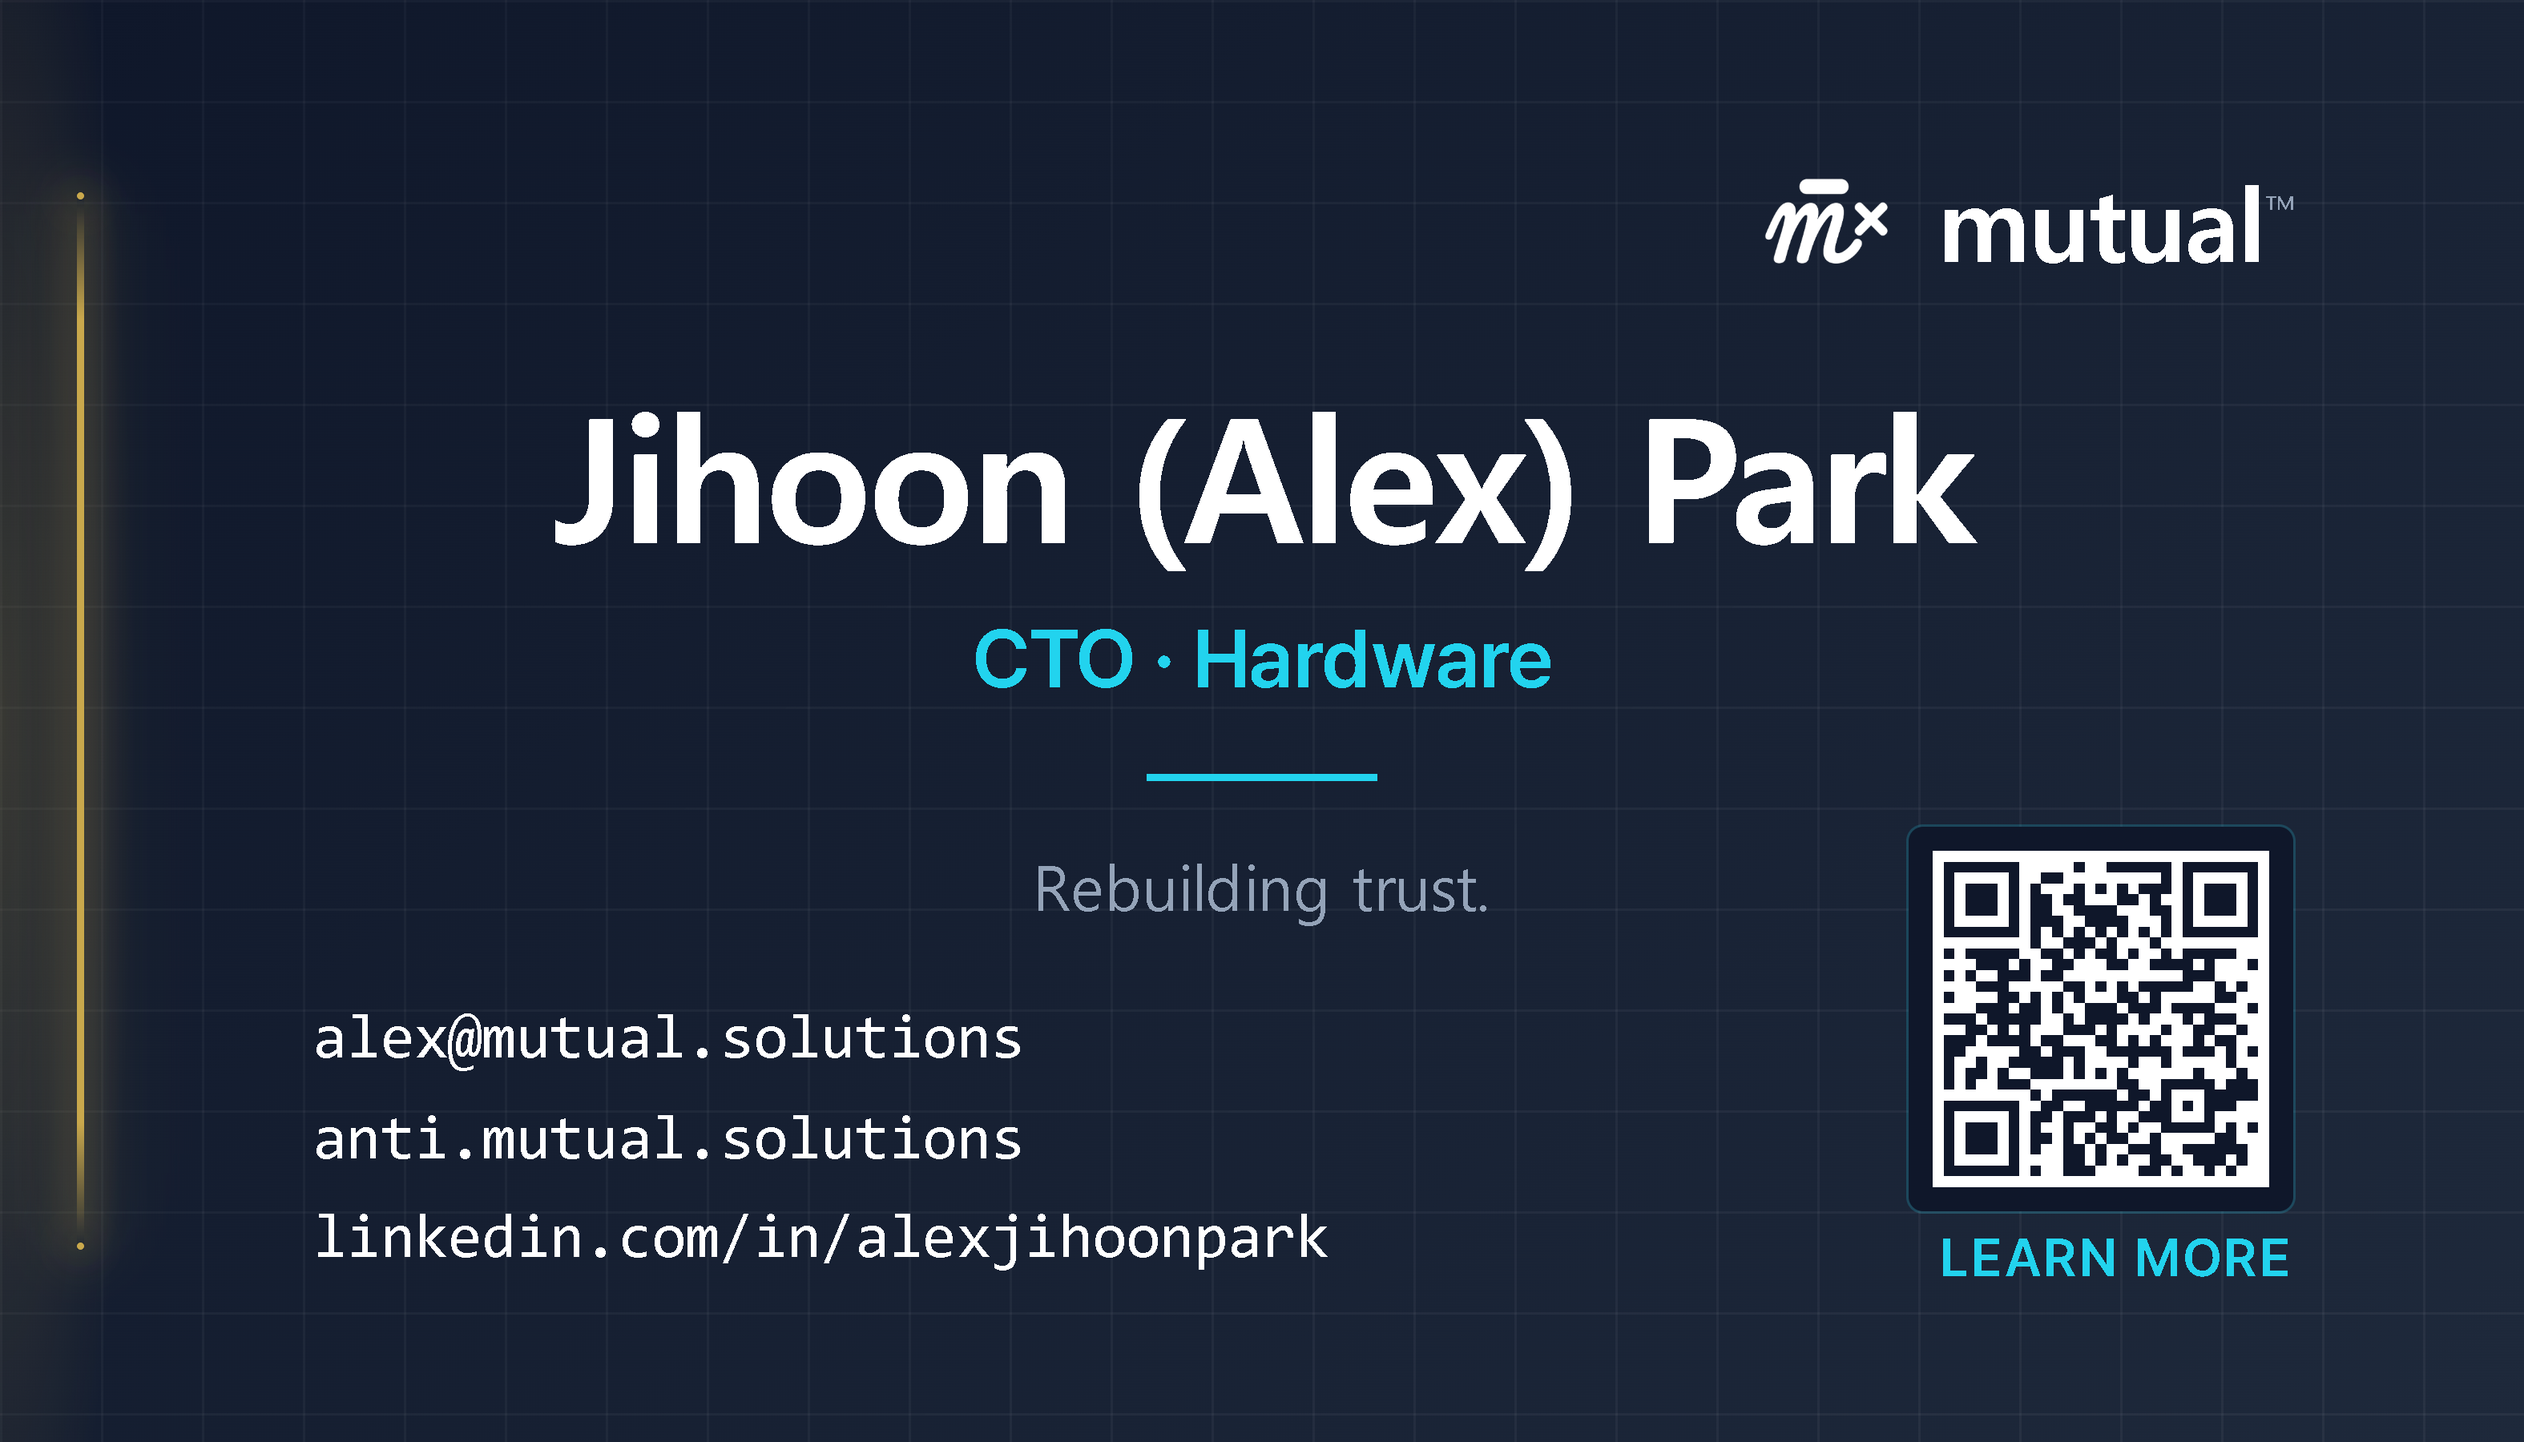
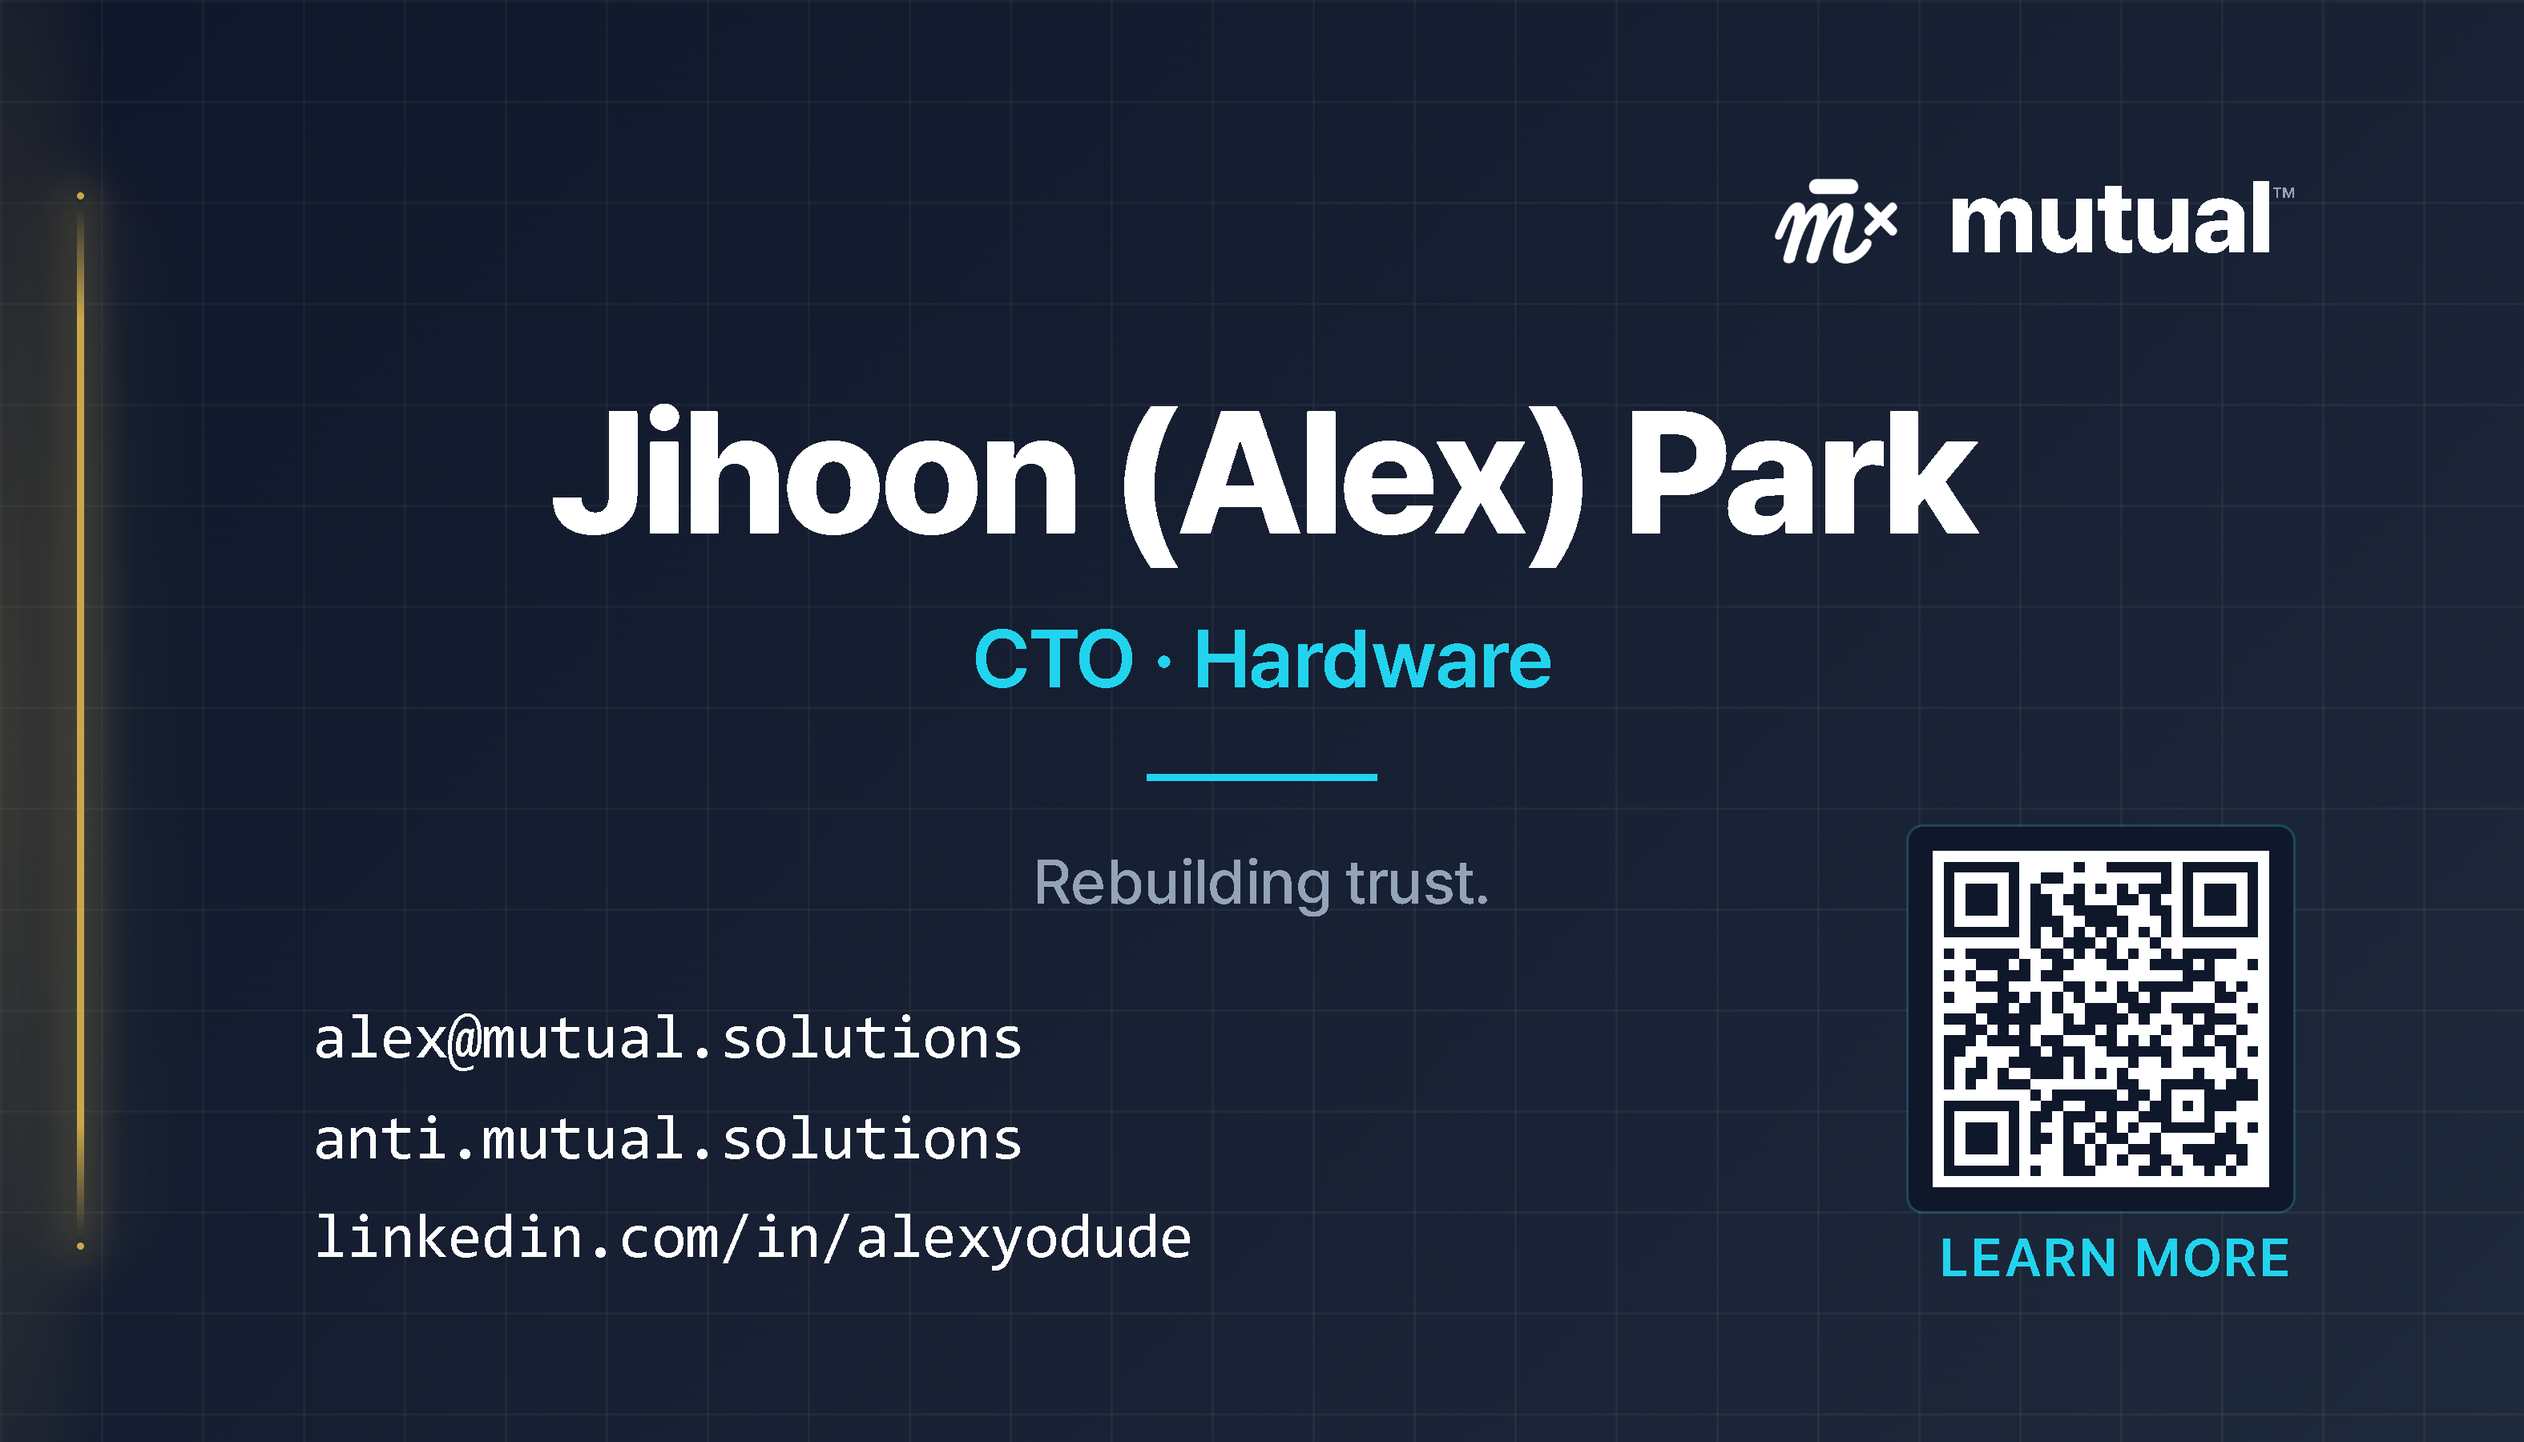
Update LinkedIn handles
Alex:  linkedin.com/in/alexjihoonpark → linkedin.com/in/alexyodude
  Yejun: linkedin.com/in/yejunjang     → linkedin.com/in/mutantq

Updated in both .canva-build/generate-lab-edge.cjs (Lab Edge family) and
.canva-build/variants.cjs (parametric + handcrafted variants). Lab Edge
HTMLs and PNGs re-rendered with the new URLs.

diff --git a/.canva-build/v-tech-edge-fek1-front-alex.html b/.canva-build/v-tech-edge-fek1-front-alex.html
@@ -43,7 +43,7 @@ html,body{width:1050px;height:600px;background:#020617;font-family:'Pretendard',
   <div class="mono" style="position:absolute;left:130px;bottom:64px;font-size:26px;line-height:1.6;color:#fff;letter-spacing:0.1px;font-weight:500;z-index:2">
     <div>alex@mutual.solutions</div>
     <div>anti.mutual.solutions</div>
-    <div>linkedin.com/in/alexjihoonpark</div>
+    <div>linkedin.com/in/alexyodude</div>
   </div>
 
   <!-- QR + English label -->

diff --git a/.canva-build/v-tech-edge-gilded-front-alex.html b/.canva-build/v-tech-edge-gilded-front-alex.html
@@ -43,7 +43,7 @@ html,body{width:1050px;height:600px;background:#0f172a;font-family:'Pretendard',
   <div class="mono" style="position:absolute;left:130px;bottom:64px;font-size:26px;line-height:1.6;color:#fff;letter-spacing:0.1px;font-weight:500;z-index:2">
     <div>alex@mutual.solutions</div>
     <div>anti.mutual.solutions</div>
-    <div>linkedin.com/in/alexjihoonpark</div>
+    <div>linkedin.com/in/alexyodude</div>
   </div>
 
   <!-- QR + English label -->

diff --git a/.canva-build/v-tech-edge-halo-front-alex.html b/.canva-build/v-tech-edge-halo-front-alex.html
@@ -43,7 +43,7 @@ html,body{width:1050px;height:600px;background:#0f172a;font-family:'Pretendard',
   <div class="mono" style="position:absolute;left:130px;bottom:64px;font-size:26px;line-height:1.6;color:#fff;letter-spacing:0.1px;font-weight:500;z-index:2">
     <div>alex@mutual.solutions</div>
     <div>anti.mutual.solutions</div>
-    <div>linkedin.com/in/alexjihoonpark</div>
+    <div>linkedin.com/in/alexyodude</div>
   </div>
 
   <!-- QR + English label -->

diff --git a/.canva-build/v-tech-edge-fek1-back-alex.html b/.canva-build/v-tech-edge-fek1-back-alex.html
@@ -42,7 +42,7 @@ html,body{width:1050px;height:600px;background:#020617;font-family:'Pretendard',
   <div class="mono" style="position:absolute;left:130px;bottom:64px;font-size:26px;line-height:1.6;color:#fff;letter-spacing:0.1px;font-weight:500;z-index:2">
     <div>alex@mutual.solutions</div>
     <div>anti.mutual.solutions</div>
-    <div>linkedin.com/in/alexjihoonpark</div>
+    <div>linkedin.com/in/alexyodude</div>
   </div>
 
   <!-- QR + Korean label -->

diff --git a/.canva-build/v-tech-edge-gilded-back-alex.html b/.canva-build/v-tech-edge-gilded-back-alex.html
@@ -42,7 +42,7 @@ html,body{width:1050px;height:600px;background:#0f172a;font-family:'Pretendard',
   <div class="mono" style="position:absolute;left:130px;bottom:64px;font-size:26px;line-height:1.6;color:#fff;letter-spacing:0.1px;font-weight:500;z-index:2">
     <div>alex@mutual.solutions</div>
     <div>anti.mutual.solutions</div>
-    <div>linkedin.com/in/alexjihoonpark</div>
+    <div>linkedin.com/in/alexyodude</div>
   </div>
 
   <!-- QR + Korean label -->

diff --git a/.canva-build/v-tech-edge-halo-back-alex.html b/.canva-build/v-tech-edge-halo-back-alex.html
@@ -42,7 +42,7 @@ html,body{width:1050px;height:600px;background:#0f172a;font-family:'Pretendard',
   <div class="mono" style="position:absolute;left:130px;bottom:64px;font-size:26px;line-height:1.6;color:#fff;letter-spacing:0.1px;font-weight:500;z-index:2">
     <div>alex@mutual.solutions</div>
     <div>anti.mutual.solutions</div>
-    <div>linkedin.com/in/alexjihoonpark</div>
+    <div>linkedin.com/in/alexyodude</div>
   </div>
 
   <!-- QR + Korean label -->

diff --git a/.canva-build/v-tech-edge-fek1-front-yejun.html b/.canva-build/v-tech-edge-fek1-front-yejun.html
@@ -43,7 +43,7 @@ html,body{width:1050px;height:600px;background:#020617;font-family:'Pretendard',
   <div class="mono" style="position:absolute;left:130px;bottom:64px;font-size:26px;line-height:1.6;color:#fff;letter-spacing:0.1px;font-weight:500;z-index:2">
     <div>yejun@mutual.solutions</div>
     <div>mutual.solutions</div>
-    <div>linkedin.com/in/yejunjang</div>
+    <div>linkedin.com/in/mutantq</div>
   </div>
 
   <!-- QR + English label -->

diff --git a/.canva-build/v-tech-edge-gilded-front-yejun.html b/.canva-build/v-tech-edge-gilded-front-yejun.html
@@ -43,7 +43,7 @@ html,body{width:1050px;height:600px;background:#0f172a;font-family:'Pretendard',
   <div class="mono" style="position:absolute;left:130px;bottom:64px;font-size:26px;line-height:1.6;color:#fff;letter-spacing:0.1px;font-weight:500;z-index:2">
     <div>yejun@mutual.solutions</div>
     <div>mutual.solutions</div>
-    <div>linkedin.com/in/yejunjang</div>
+    <div>linkedin.com/in/mutantq</div>
   </div>
 
   <!-- QR + English label -->

diff --git a/.canva-build/v-tech-edge-halo-front-yejun.html b/.canva-build/v-tech-edge-halo-front-yejun.html
@@ -43,7 +43,7 @@ html,body{width:1050px;height:600px;background:#0f172a;font-family:'Pretendard',
   <div class="mono" style="position:absolute;left:130px;bottom:64px;font-size:26px;line-height:1.6;color:#fff;letter-spacing:0.1px;font-weight:500;z-index:2">
     <div>yejun@mutual.solutions</div>
     <div>mutual.solutions</div>
-    <div>linkedin.com/in/yejunjang</div>
+    <div>linkedin.com/in/mutantq</div>
   </div>
 
   <!-- QR + English label -->

diff --git a/.canva-build/v-tech-edge-fek1-back-yejun.html b/.canva-build/v-tech-edge-fek1-back-yejun.html
@@ -42,7 +42,7 @@ html,body{width:1050px;height:600px;background:#020617;font-family:'Pretendard',
   <div class="mono" style="position:absolute;left:130px;bottom:64px;font-size:26px;line-height:1.6;color:#fff;letter-spacing:0.1px;font-weight:500;z-index:2">
     <div>yejun@mutual.solutions</div>
     <div>mutual.solutions</div>
-    <div>linkedin.com/in/yejunjang</div>
+    <div>linkedin.com/in/mutantq</div>
   </div>
 
   <!-- QR + Korean label -->

diff --git a/.canva-build/v-tech-edge-gilded-back-yejun.html b/.canva-build/v-tech-edge-gilded-back-yejun.html
@@ -42,7 +42,7 @@ html,body{width:1050px;height:600px;background:#0f172a;font-family:'Pretendard',
   <div class="mono" style="position:absolute;left:130px;bottom:64px;font-size:26px;line-height:1.6;color:#fff;letter-spacing:0.1px;font-weight:500;z-index:2">
     <div>yejun@mutual.solutions</div>
     <div>mutual.solutions</div>
-    <div>linkedin.com/in/yejunjang</div>
+    <div>linkedin.com/in/mutantq</div>
   </div>
 
   <!-- QR + Korean label -->

diff --git a/.canva-build/v-tech-edge-halo-back-yejun.html b/.canva-build/v-tech-edge-halo-back-yejun.html
@@ -42,7 +42,7 @@ html,body{width:1050px;height:600px;background:#0f172a;font-family:'Pretendard',
   <div class="mono" style="position:absolute;left:130px;bottom:64px;font-size:26px;line-height:1.6;color:#fff;letter-spacing:0.1px;font-weight:500;z-index:2">
     <div>yejun@mutual.solutions</div>
     <div>mutual.solutions</div>
-    <div>linkedin.com/in/yejunjang</div>
+    <div>linkedin.com/in/mutantq</div>
   </div>
 
   <!-- QR + Korean label -->
